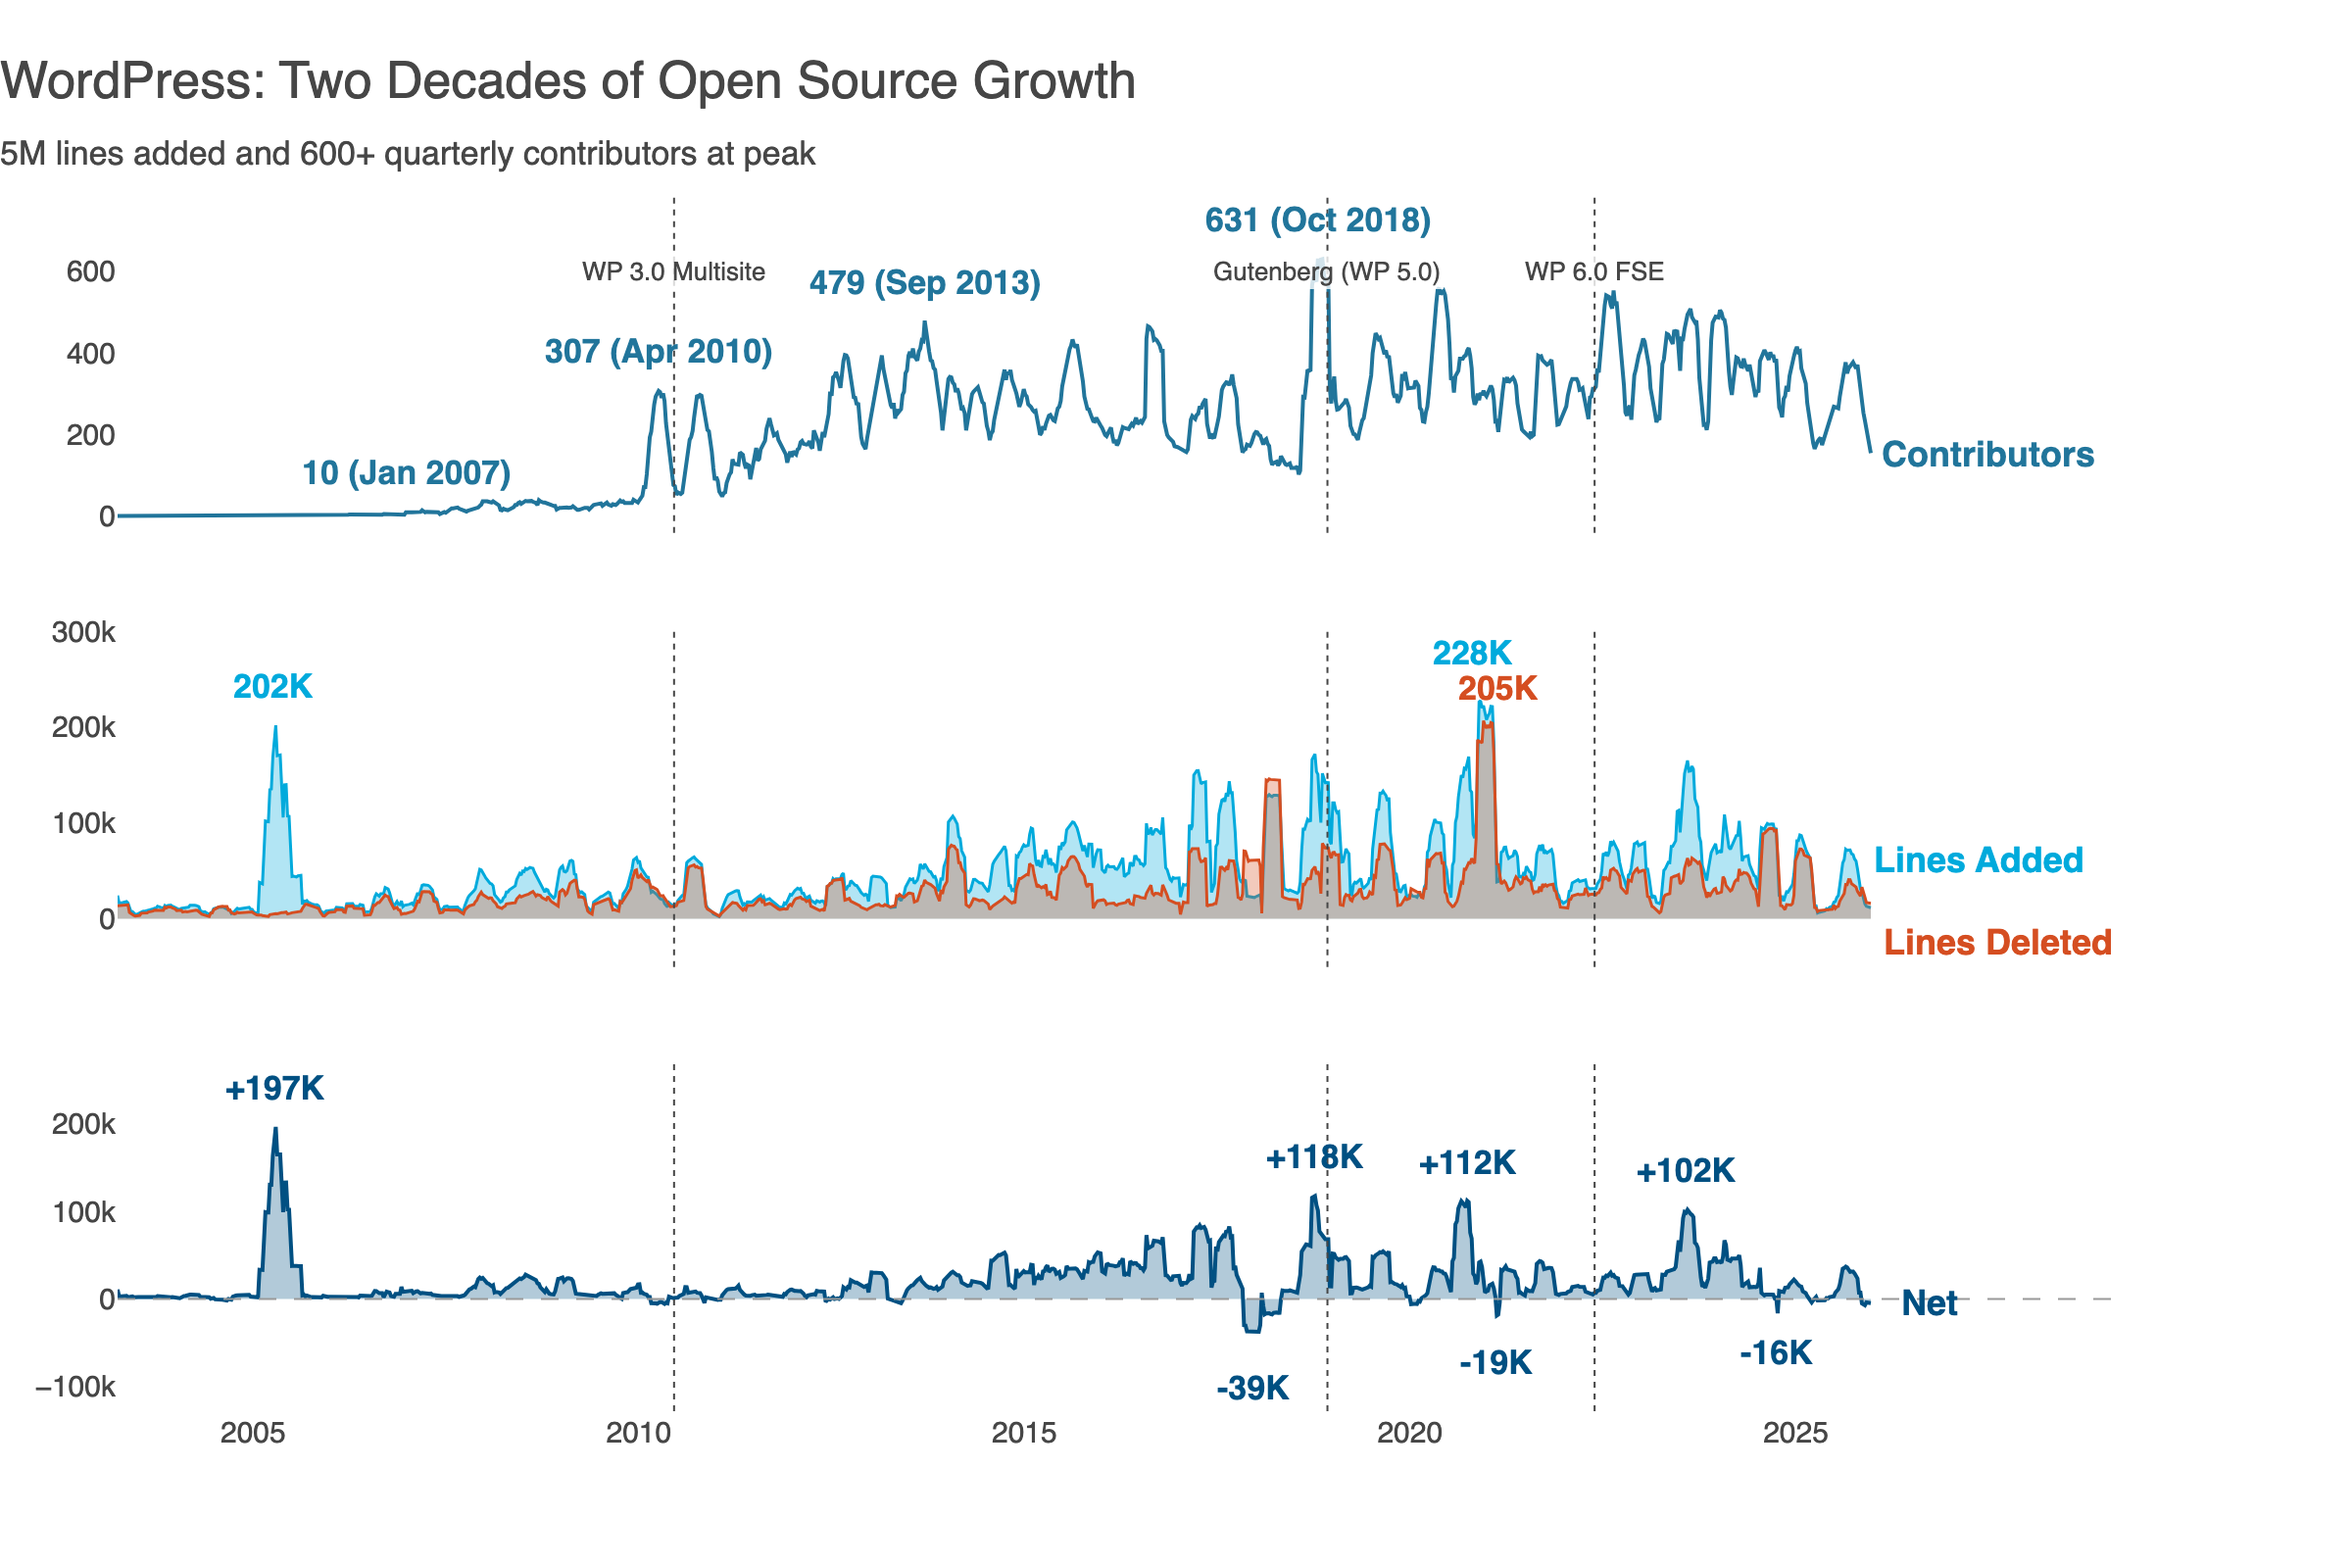
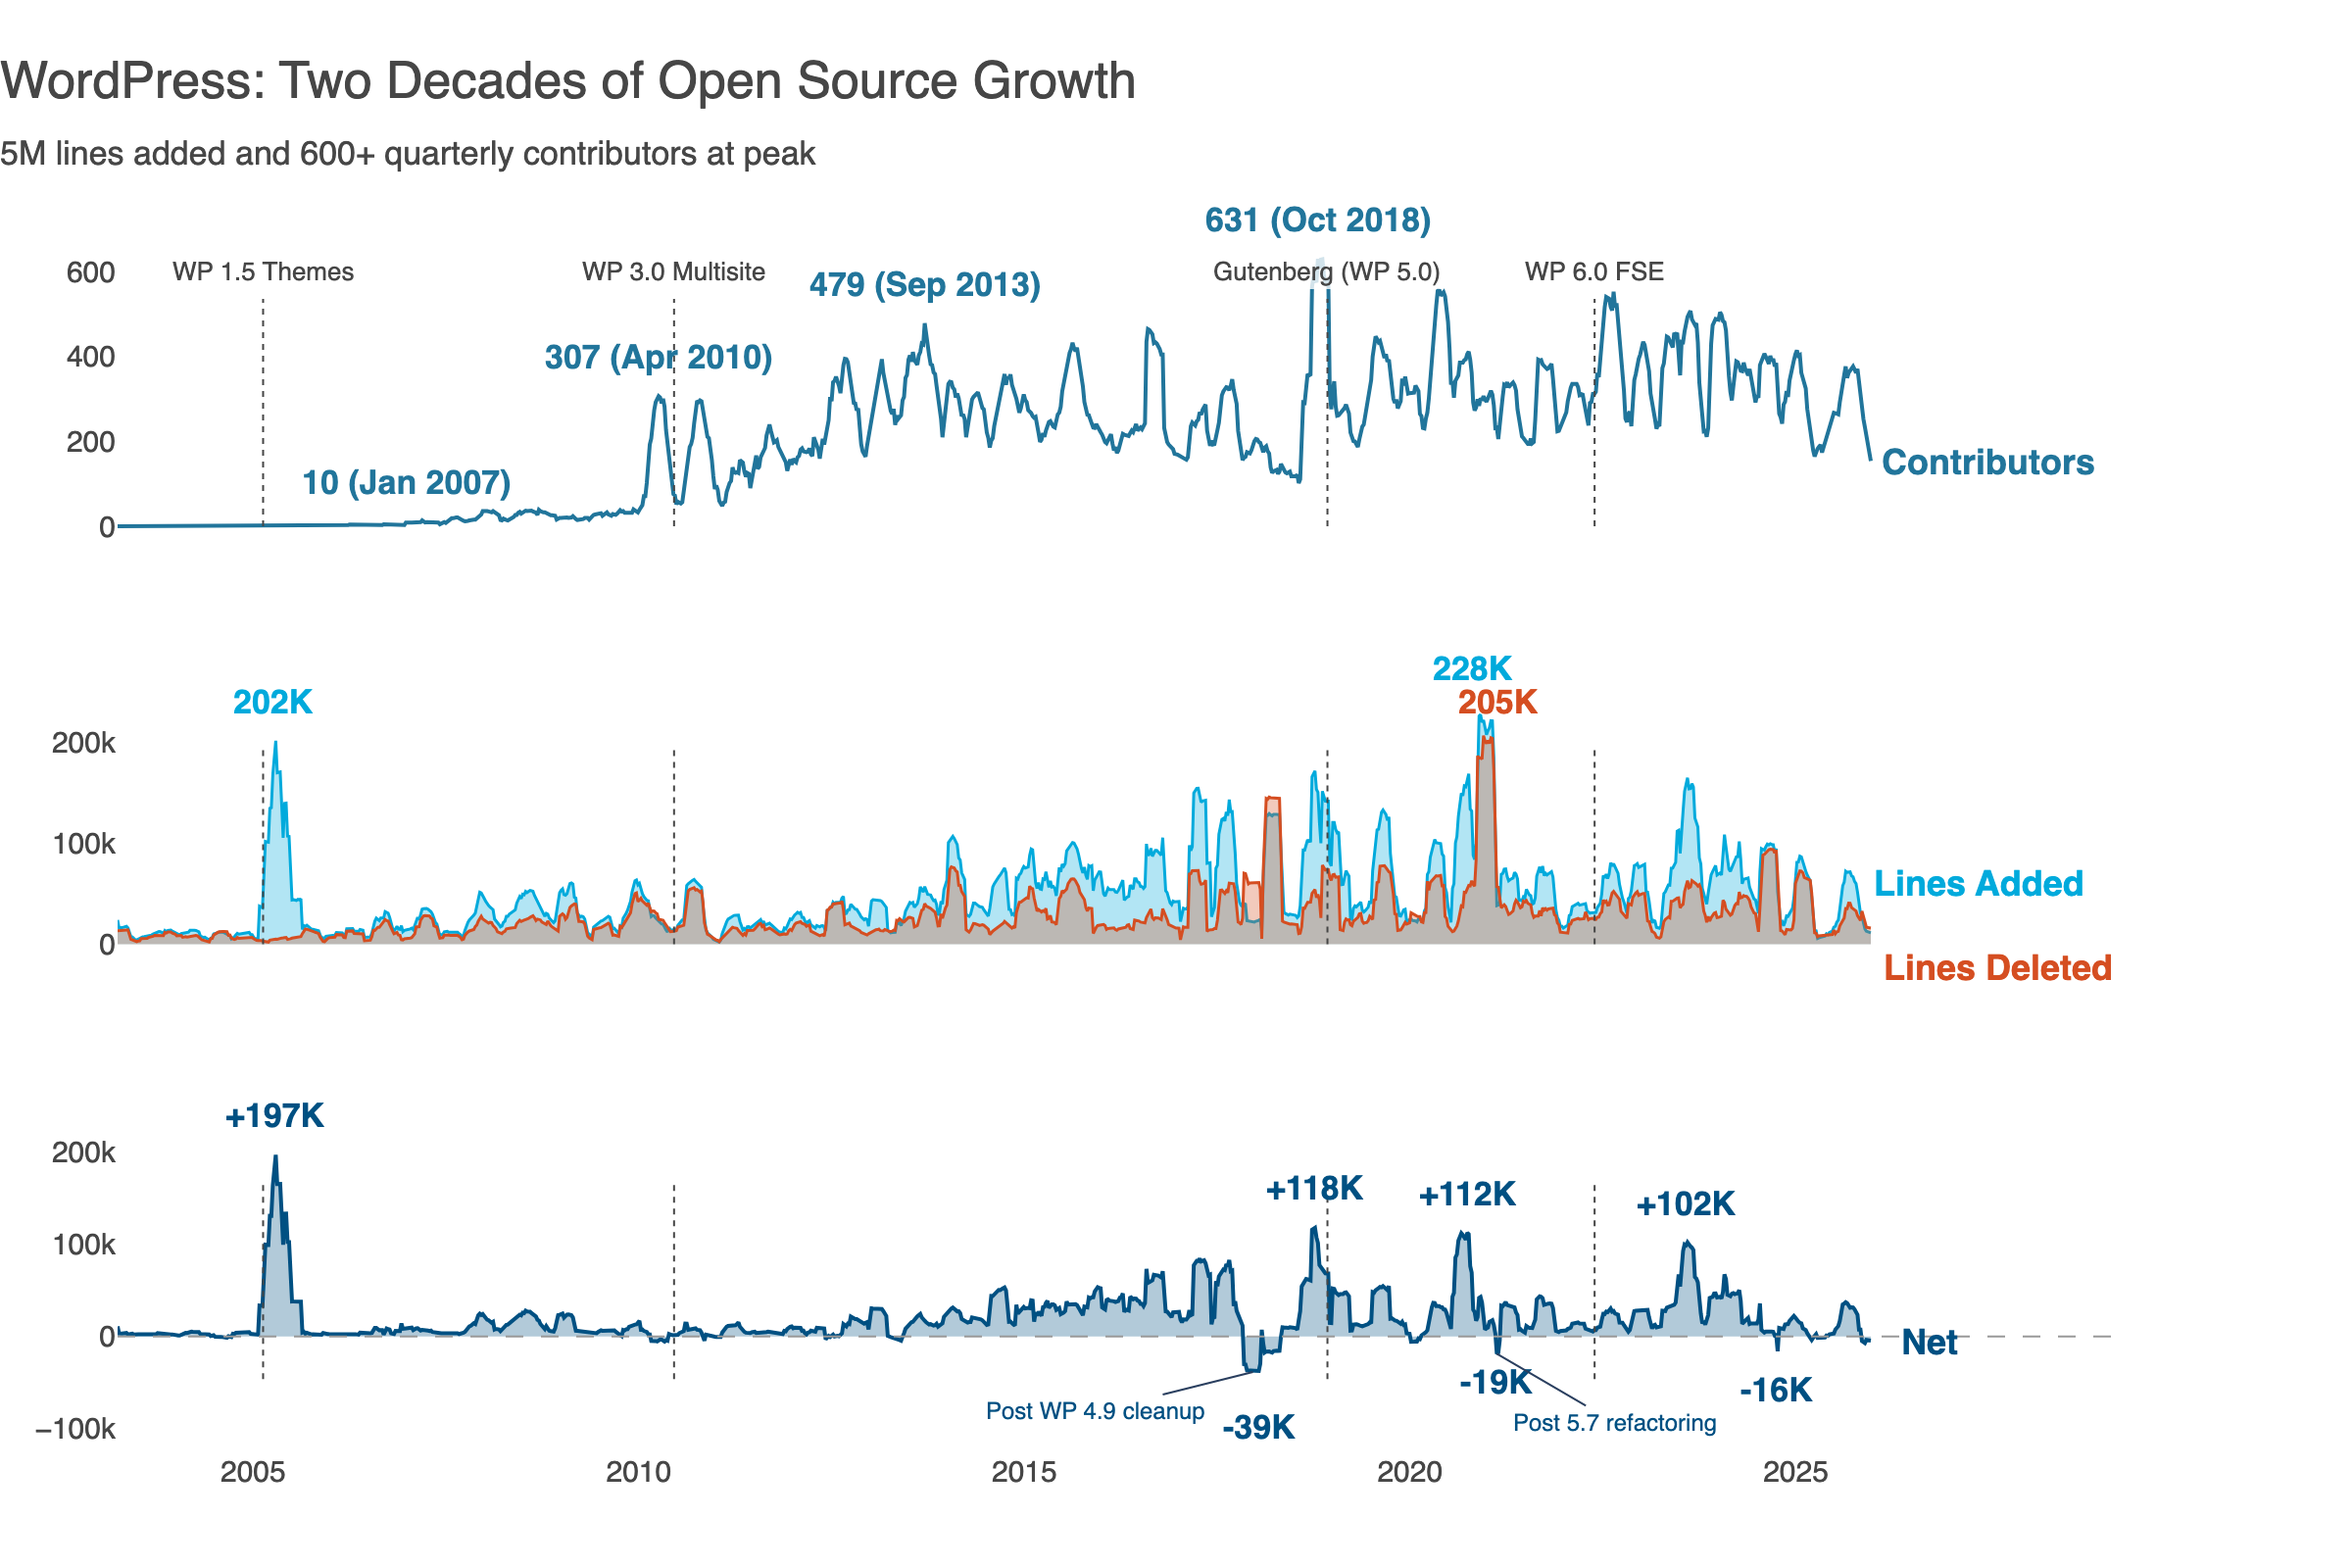
feat: add WP 1.5 milestone, shorter annotation lines, context labels
- Add WP 1.5 Themes milestone annotation at February 2005
- Shorten dotted milestone lines using shapes (85% height)
- Add "Post WP 4.9 cleanup" and "Post 5.7 refactoring" text labels with arrows
- Adjust bottom margin for breathing room

diff --git a/src/notebooks/wordpress_code_evolution.py b/src/notebooks/wordpress_code_evolution.py
@@ -798,29 +798,41 @@ def _(df, go, make_subplots):
 
     # Key WordPress milestones with vertical lines and annotations
     _milestones = [
+        ("2005-02-17", "WP 1.5\nThemes"),
         ("2010-06-17", "WP 3.0\nMultisite"),
         ("2018-12-06", "Gutenberg\n(WP 5.0)"),
         ("2022-05-24", "WP 6.0\nFSE"),
     ]
 
+    # Calculate bounds for partial vertical lines (shorter than full height)
+    _max_contrib = df["unique_props_contributors"].max()
+    _max_lines = max(df["total_lines_added"].max(), df["total_lines_deleted"].max())
+    _max_net = df["net_lines"].max()
+    _min_net = df["net_lines"].min()
+
     for _date_str, _label in _milestones:
-        # Vertical line on all charts
-        fig5.add_vline(
-            x=_date_str, line=dict(color=WP_DARK_GRAY_5, width=1, dash="dot"),
+        # Shorter vertical lines using shapes
+        fig5.add_shape(
+            type="line", x0=_date_str, x1=_date_str,
+            y0=0, y1=_max_contrib * 0.85,
+            line=dict(color=WP_DARK_GRAY_5, width=1, dash="dot"),
             row=1, col=1
         )
-        fig5.add_vline(
-            x=_date_str, line=dict(color=WP_DARK_GRAY_5, width=1, dash="dot"),
+        fig5.add_shape(
+            type="line", x0=_date_str, x1=_date_str,
+            y0=0, y1=_max_lines * 0.85,
+            line=dict(color=WP_DARK_GRAY_5, width=1, dash="dot"),
             row=2, col=1
         )
-        fig5.add_vline(
-            x=_date_str, line=dict(color=WP_DARK_GRAY_5, width=1, dash="dot"),
+        fig5.add_shape(
+            type="line", x0=_date_str, x1=_date_str,
+            y0=_min_net * 1.2, y1=_max_net * 0.85,
+            line=dict(color=WP_DARK_GRAY_5, width=1, dash="dot"),
             row=3, col=1
         )
         # Annotation only on row 1
-        _y_max = df["unique_props_contributors"].max()
         fig5.add_annotation(
-            x=_date_str, y=_y_max * 0.95,
+            x=_date_str, y=_max_contrib * 0.95,
             text=_label,
             showarrow=False,
             font=dict(size=13, color=WP_DARK_GRAY_5),
@@ -884,10 +896,10 @@ def _(df, go, make_subplots):
     # (date, value, yshift, xshift)
     _net_peaks_5 = [
         ("2005-04-18", 196637, 20, 0),     # WP 1.5 release
-        ("2017-12-18", -38622, -28, 0),    # Post WP 4.9 cleanup
+        ("2017-12-18", -38622, -28, 3),    # Post WP 4.9 cleanup
         ("2018-10-08", 117674, 20, 0),     # WP 5.0 Gutenberg push
         ("2020-09-28", 112182, 20, 0),   # WP 5.5/5.6 development
-        ("2021-02-15", -18864, -24, 0),     # Post 5.7 refactoring
+        ("2021-02-15", -18864, -14, 0),     # Post 5.7 refactoring
         ("2023-08-07", 101879, 20, 0),   # WP 6.3 FSE maturity
         ("2024-10-07", -16242, -20, 0),     # WP 6.7 cleanup
     ]
@@ -901,6 +913,26 @@ def _(df, go, make_subplots):
             font=dict(color=WP_ORIENT_5, size=17, weight="bold"),
             row=3, col=1
         )
+
+    # Contextual labels with arrows for major negative peaks
+    fig5.add_annotation(
+        x="2017-12-18", y=-38622,
+        text="Post WP 4.9\ncleanup",
+        showarrow=True,
+        arrowhead=0,
+        ax=-80, ay=20,
+        font=dict(color=WP_ORIENT_5, size=12),
+        row=3, col=1
+    )
+    fig5.add_annotation(
+        x="2021-02-15", y=-18864,
+        text="Post 5.7\nrefactoring",
+        showarrow=True,
+        arrowhead=0,
+        ax=60, ay=35,
+        font=dict(color=WP_ORIENT_5, size=12),
+        row=3, col=1
+    )
 
     # Layout with insight-driven title - left aligned
     fig5.update_layout(
@@ -917,7 +949,7 @@ def _(df, go, make_subplots):
             x=0, xanchor="left",
             font=dict(size=26, color=WP_DARK_GRAY_5)
         ),
-        margin=dict(r=120, l=60, t=100)
+        margin=dict(r=120, l=60, t=100, b=60)
     )
 
     # Axes styling - use ~s to avoid "0.0"
@@ -1042,7 +1074,7 @@ def _(NOTEBOOK_DIR, fig0, fig1, fig2, fig3, fig4, fig5):
         return exported_files
 
     # Uncomment the line below to export charts:
-    # export_charts()
+    export_charts()
     return
 
 
